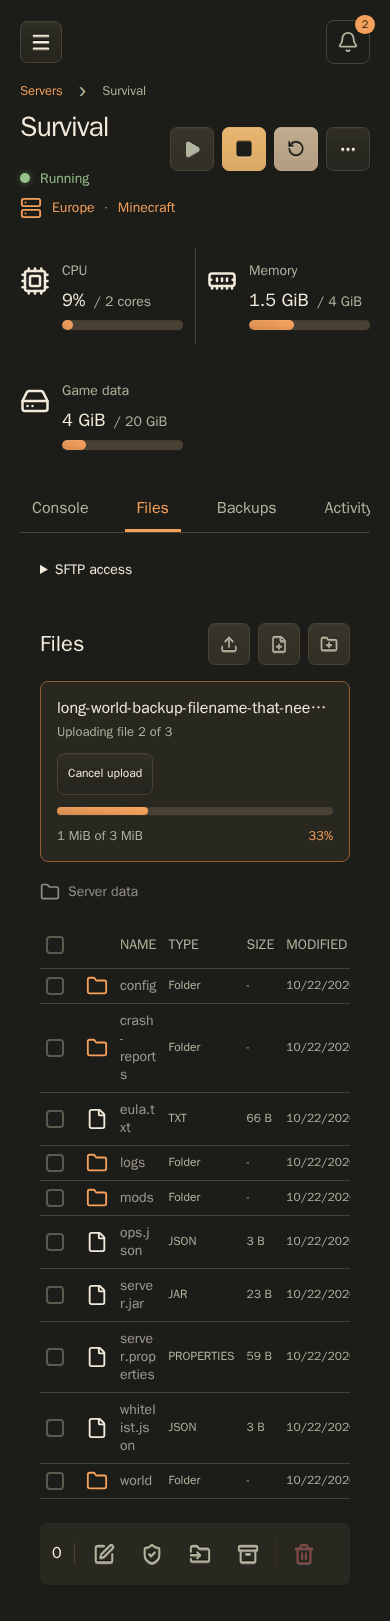
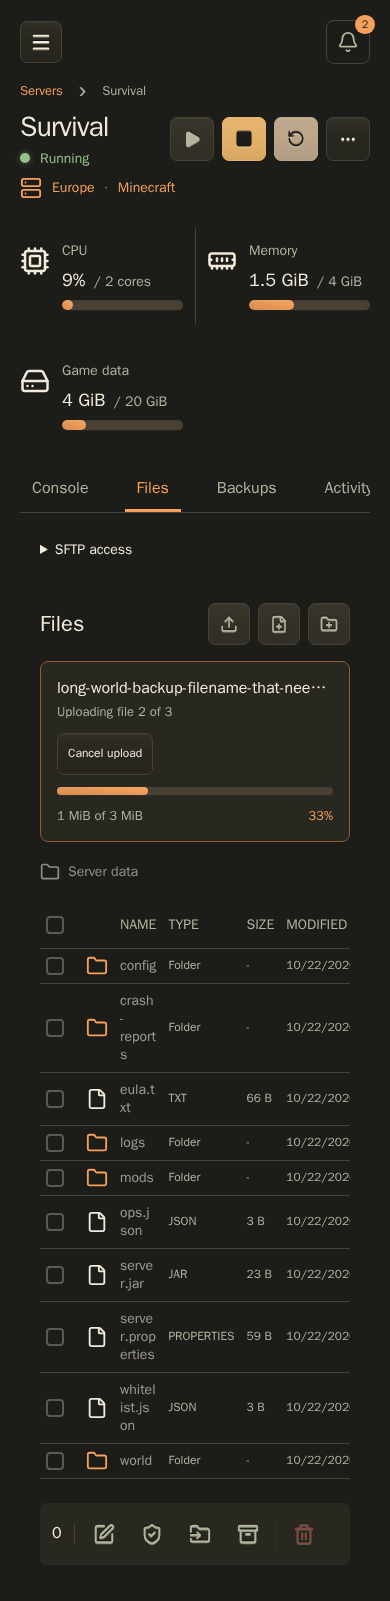
Tighten wrapped server-header spacing and simplify visual coverage
Use a 4px row gap while retaining the 24px column gap, keeping wrapped status and Spark details near the title. Replace header layout measurements and functional styling assertions with a focused canonical screenshot; retain behavioral and accessible-action tests.

Refresh two affected mobile page baselines and add the mobile console-header crop. All 16 affected canonical browser tests pass with snapshot updates disabled; eight focused frontend tests, typechecks, lint and formatting pass. Broader verification deferred.

diff --git a/e2e/page-header.spec.ts b/e2e/page-header.spec.ts
@@ -1,114 +1,18 @@
-import { test, expect } from "./fixtures";
-import { login } from "./screens";
+import { test, expect, screenshot } from "./fixtures";
+import { login, mockServerStatus } from "./screens";
 
-const creationPages = [
-  {
-    id: "schedules",
-    title: "Schedules",
-    action: "+ Create schedule",
-    compact: "Create",
-  },
-  {
-    id: "servers",
-    title: "Servers",
-    action: "+ Create server",
-    compact: "Create",
-  },
-  { id: "sparks", title: "Sparks", action: "+ Add Spark", compact: "Add" },
-  {
-    id: "embers",
-    title: "Embers",
-    action: "+ Create Ember",
-    compact: "Create",
-  },
-  { id: "users", title: "Users", action: "+ Create user", compact: "Create" },
-  { id: "roles", title: "Roles", action: "+ Create role", compact: "Create" },
-];
-
-for (const width of [320, 390, 640]) {
-  test(`shared mobile headers keep their primary action beside the title at ${width}px`, async ({
-    page,
-  }) => {
-    await login(page);
-    await page.setViewportSize({ width, height: 844 });
-    for (const screen of creationPages) {
-      await page.goto(`/#${screen.id}`);
-      const header = page.locator(".page-header");
-      await expect(
-        header.getByRole("heading", { name: screen.title, exact: true }),
-      ).toBeVisible();
-      const button = header.getByRole("button", {
-        name: screen.action,
-        exact: true,
-      });
-      await expect(button).toBeVisible();
-      await page.evaluate(() => document.fonts.ready);
-      await expect(
-        button.locator(".page-header-action-compact-label"),
-      ).toHaveText(screen.compact);
-      await expect(
-        button.locator(".page-header-action-compact-label"),
-      ).toBeVisible();
-      await expect(button.locator(".page-header-action-label")).toBeHidden();
-      const title = await header.locator(".page-header-title").boundingBox();
-      const actions = await header.locator(".page-actions").boundingBox();
-      const description = await header
-        .locator(".page-description")
-        .boundingBox();
-      const bounds = await header.boundingBox();
-      const touchTarget = await button.boundingBox();
-      if (!title || !actions || !description || !bounds || !touchTarget)
-        throw new Error(`Missing header layout on ${screen.id}`);
-      expect(
-        Math.abs(title.y + title.height / 2 - actions.y - actions.height / 2),
-      ).toBeLessThan(1);
-      expect(title.x + title.width).toBeLessThanOrEqual(actions.x);
-      expect(description.y).toBeGreaterThanOrEqual(
-        Math.max(title.y + title.height, actions.y + actions.height),
-      );
-      expect(actions.x + actions.width).toBeLessThanOrEqual(
-        bounds.x + bounds.width + 1,
-      );
-      expect(bounds.x + bounds.width).toBeLessThanOrEqual(width);
-      expect(touchTarget.height).toBeGreaterThanOrEqual(44);
-      if (screen.id === "embers") {
-        await expect(
-          header.getByRole("button", { name: "+ Import Ember", exact: true }),
-        ).toBeHidden();
-        await header
-          .getByRole("button", { name: "Actions", exact: true })
-          .click();
-        await expect(
-          header.getByRole("menuitem", { name: "+ Import Ember", exact: true }),
-        ).toBeVisible();
-        await page.keyboard.press("Escape");
-      }
-    }
-  });
-}
-
-test("desktop headers preserve their full action labels and visible secondary actions", async ({
-  page,
-}) => {
+test("server console header on mobile", async ({ page }) => {
   await login(page);
-  for (const screen of creationPages) {
-    await page.goto(`/#${screen.id}`);
-    const header = page.locator(".page-header");
-    const button = header.getByRole("button", {
-      name: screen.action,
-      exact: true,
-    });
-    await expect(button).toBeVisible();
-    await expect(button.locator(".page-header-action-label")).toBeVisible();
-    await expect(
-      button.locator(".page-header-action-compact-label"),
-    ).toBeHidden();
-    await expect(button.locator(".page-header-primary-icon")).toBeHidden();
-    if (screen.id === "embers") {
-      await expect(
-        header.getByRole("button", { name: "+ Import Ember", exact: true }),
-      ).toBeVisible();
-      await expect(header.locator(".page-header-secondary-menu")).toBeHidden();
-    }
-  }
+  await mockServerStatus(page, "survival", () => ({
+    server_id: "survival",
+    state: "running",
+    ready: true,
+    busy: false,
+    disk_quota_enforced: true,
+  }));
+  await page.goto("/#servers/survival/console");
+  await page.setViewportSize({ width: 390, height: 844 });
+  const header = page.locator(".page-header");
+  await expect(header.getByText("Running", { exact: true })).toBeVisible();
+  await screenshot(page, "server-console-header-mobile.png", header);
 });

diff --git a/web/tests/functional/notifications.test.tsx b/web/tests/functional/notifications.test.tsx
@@ -56,7 +56,7 @@ beforeEach(() => {
   vi.mocked(markAllNotificationsRead).mockResolvedValue();
 });
 
-test("read and unread actions use envelope icons with tooltips and accessible names", async () => {
+test("read and unread actions have tooltips and notification-specific accessible names", async () => {
   render(<NotificationsPage />);
   const read = await screen.findByRole("button", {
     name: "Mark read: Survival restarted",
@@ -64,24 +64,14 @@ test("read and unread actions use envelope icons with tooltips and accessible na
   const unread = screen.getByRole("button", {
     name: "Mark unread: Backup completed",
   });
-  expect(read.classList.contains("button-icon")).toBe(true);
-  expect(unread.classList.contains("button-icon")).toBe(true);
-  expect(read.textContent).toBe("");
-  expect(unread.textContent).toBe("");
   expect(read.title).toBe("Mark read");
   expect(unread.title).toBe("Mark unread");
-  expect(
-    read.querySelector("svg.lucide-mail-open")?.getAttribute("aria-hidden"),
-  ).toBe("true");
-  expect(
-    unread.querySelector("svg.lucide-mail")?.getAttribute("aria-hidden"),
-  ).toBe("true");
   expect(
     screen.getByRole("button", { name: "Mark all read" }).textContent,
   ).toBe("Mark all read");
 });
 
-test("keyboard and pointer activation update the notification and switch its action icon", async () => {
+test("keyboard and pointer activation update the notification and its available action", async () => {
   const user = userEvent.setup();
   render(<NotificationsPage />);
   const read = await screen.findByRole("button", {
@@ -93,15 +83,13 @@ test("keyboard and pointer activation update the notification and switch its act
   const unread = await screen.findByRole("button", {
     name: "Mark unread: Survival restarted",
   });
-  expect(unread.querySelector("svg.lucide-mail")).not.toBeNull();
   const message = screen.getByRole("article", { name: "Survival restarted" });
   expect(within(message).queryByText("Unread")).toBeNull();
   await user.click(unread);
   expect(markNotificationRead).toHaveBeenLastCalledWith(2, false);
-  const restored = await screen.findByRole("button", {
+  await screen.findByRole("button", {
     name: "Mark read: Survival restarted",
   });
-  expect(restored.querySelector("svg.lucide-mail-open")).not.toBeNull();
   expect(within(message).getByText("Unread")).toBeDefined();
 });
 
@@ -130,7 +118,7 @@ test("icon actions remain disabled while a notification update is pending", asyn
   ).toBe(false);
 });
 
-test("a failed update keeps the current icon and shows the action error", async () => {
+test("a failed update keeps the notification unread and shows the action error", async () => {
   vi.mocked(markNotificationRead).mockRejectedValueOnce(
     new Error("Unable to update notification."),
   );
@@ -143,8 +131,13 @@ test("a failed update keeps the current icon and shows the action error", async 
     "Unable to update notification.",
   );
   expect(
-    screen
-      .getByRole("button", { name: "Mark read: Survival restarted" })
-      .querySelector("svg.lucide-mail-open"),
-  ).not.toBeNull();
+    screen.getByRole<HTMLButtonElement>("button", {
+      name: "Mark read: Survival restarted",
+    }).disabled,
+  ).toBe(false);
+  expect(
+    within(
+      screen.getByRole("article", { name: "Survival restarted" }),
+    ).getByText("Unread"),
+  ).toBeDefined();
 });

diff --git a/web/tests/functional/pageHeader.test.tsx b/web/tests/functional/pageHeader.test.tsx
@@ -4,7 +4,7 @@ import { PageHeader } from "../../src/components/layout/PageHeader";
 
 test("compact header actions retain their full accessible names and original handler", () => {
   const create = vi.fn();
-  const { container } = render(
+  render(
     <PageHeader
       title="Schedules"
       description="Run server tasks automatically."
@@ -17,16 +17,8 @@ test("compact header actions retain their full accessible names and original han
   );
   const button = screen.getByRole("button", { name: "Create schedule" });
   expect(button.title).toBe("Create schedule");
-  expect(button.querySelector(".page-header-action-label")?.textContent).toBe(
-    "Create schedule",
-  );
-  expect(
-    button.querySelector(".page-header-action-compact-label")?.textContent,
-  ).toBe("Create");
-  expect(button.querySelector("svg")?.getAttribute("aria-hidden")).toBe("true");
   fireEvent.click(button);
   expect(create).toHaveBeenCalledOnce();
-  expect(container.querySelector(".page-header-content")).not.toBeNull();
   expect(screen.getByText("Run server tasks automatically.")).toBeDefined();
 });
 
@@ -51,9 +43,9 @@ test("disabled primary actions remain unavailable", () => {
   expect(create).not.toHaveBeenCalled();
 });
 
-test("secondary actions support a desktop button and the shared mobile menu", () => {
+test("secondary actions retain accessible labels and callbacks", () => {
   const importEmber = vi.fn();
-  const { container } = render(
+  render(
     <PageHeader
       title="Embers"
       secondaryActions={[
@@ -63,15 +55,11 @@ test("secondary actions support a desktop button and the shared mobile menu", ()
   );
   fireEvent.click(screen.getByRole("button", { name: "Import Ember" }));
   expect(importEmber).toHaveBeenCalledOnce();
-  expect(
-    container
-      .querySelector(".page-header-secondary-menu button")
-      ?.getAttribute("aria-label"),
-  ).toBe("Actions");
+  expect(screen.getByRole("button", { name: "Actions" })).toBeDefined();
 });
 
-test("headers without actions keep their title, breadcrumb, badge and description without an empty action group", () => {
-  const { container } = render(
+test("headers without actions expose their content without action buttons", () => {
+  render(
     <PageHeader
       title="Survival"
       leading={<nav aria-label="Breadcrumb">Servers</nav>}
@@ -85,5 +73,5 @@ test("headers without actions keep their title, breadcrumb, badge and descriptio
   expect(screen.getByRole("navigation", { name: "Breadcrumb" })).toBeDefined();
   expect(screen.getByText("Running")).toBeDefined();
   expect(screen.getByText("Europe · Valheim")).toBeDefined();
-  expect(container.querySelector(".page-actions")).toBeNull();
+  expect(screen.queryByRole("button")).toBeNull();
 });

diff --git a/web/src/pages/server-operations.css b/web/src/pages/server-operations.css
@@ -1,5 +1,5 @@
 .server-operations .page-header-title {
-  gap: 24px;
+  gap: 4px 24px;
 }
 
 .operations-breadcrumbs {
